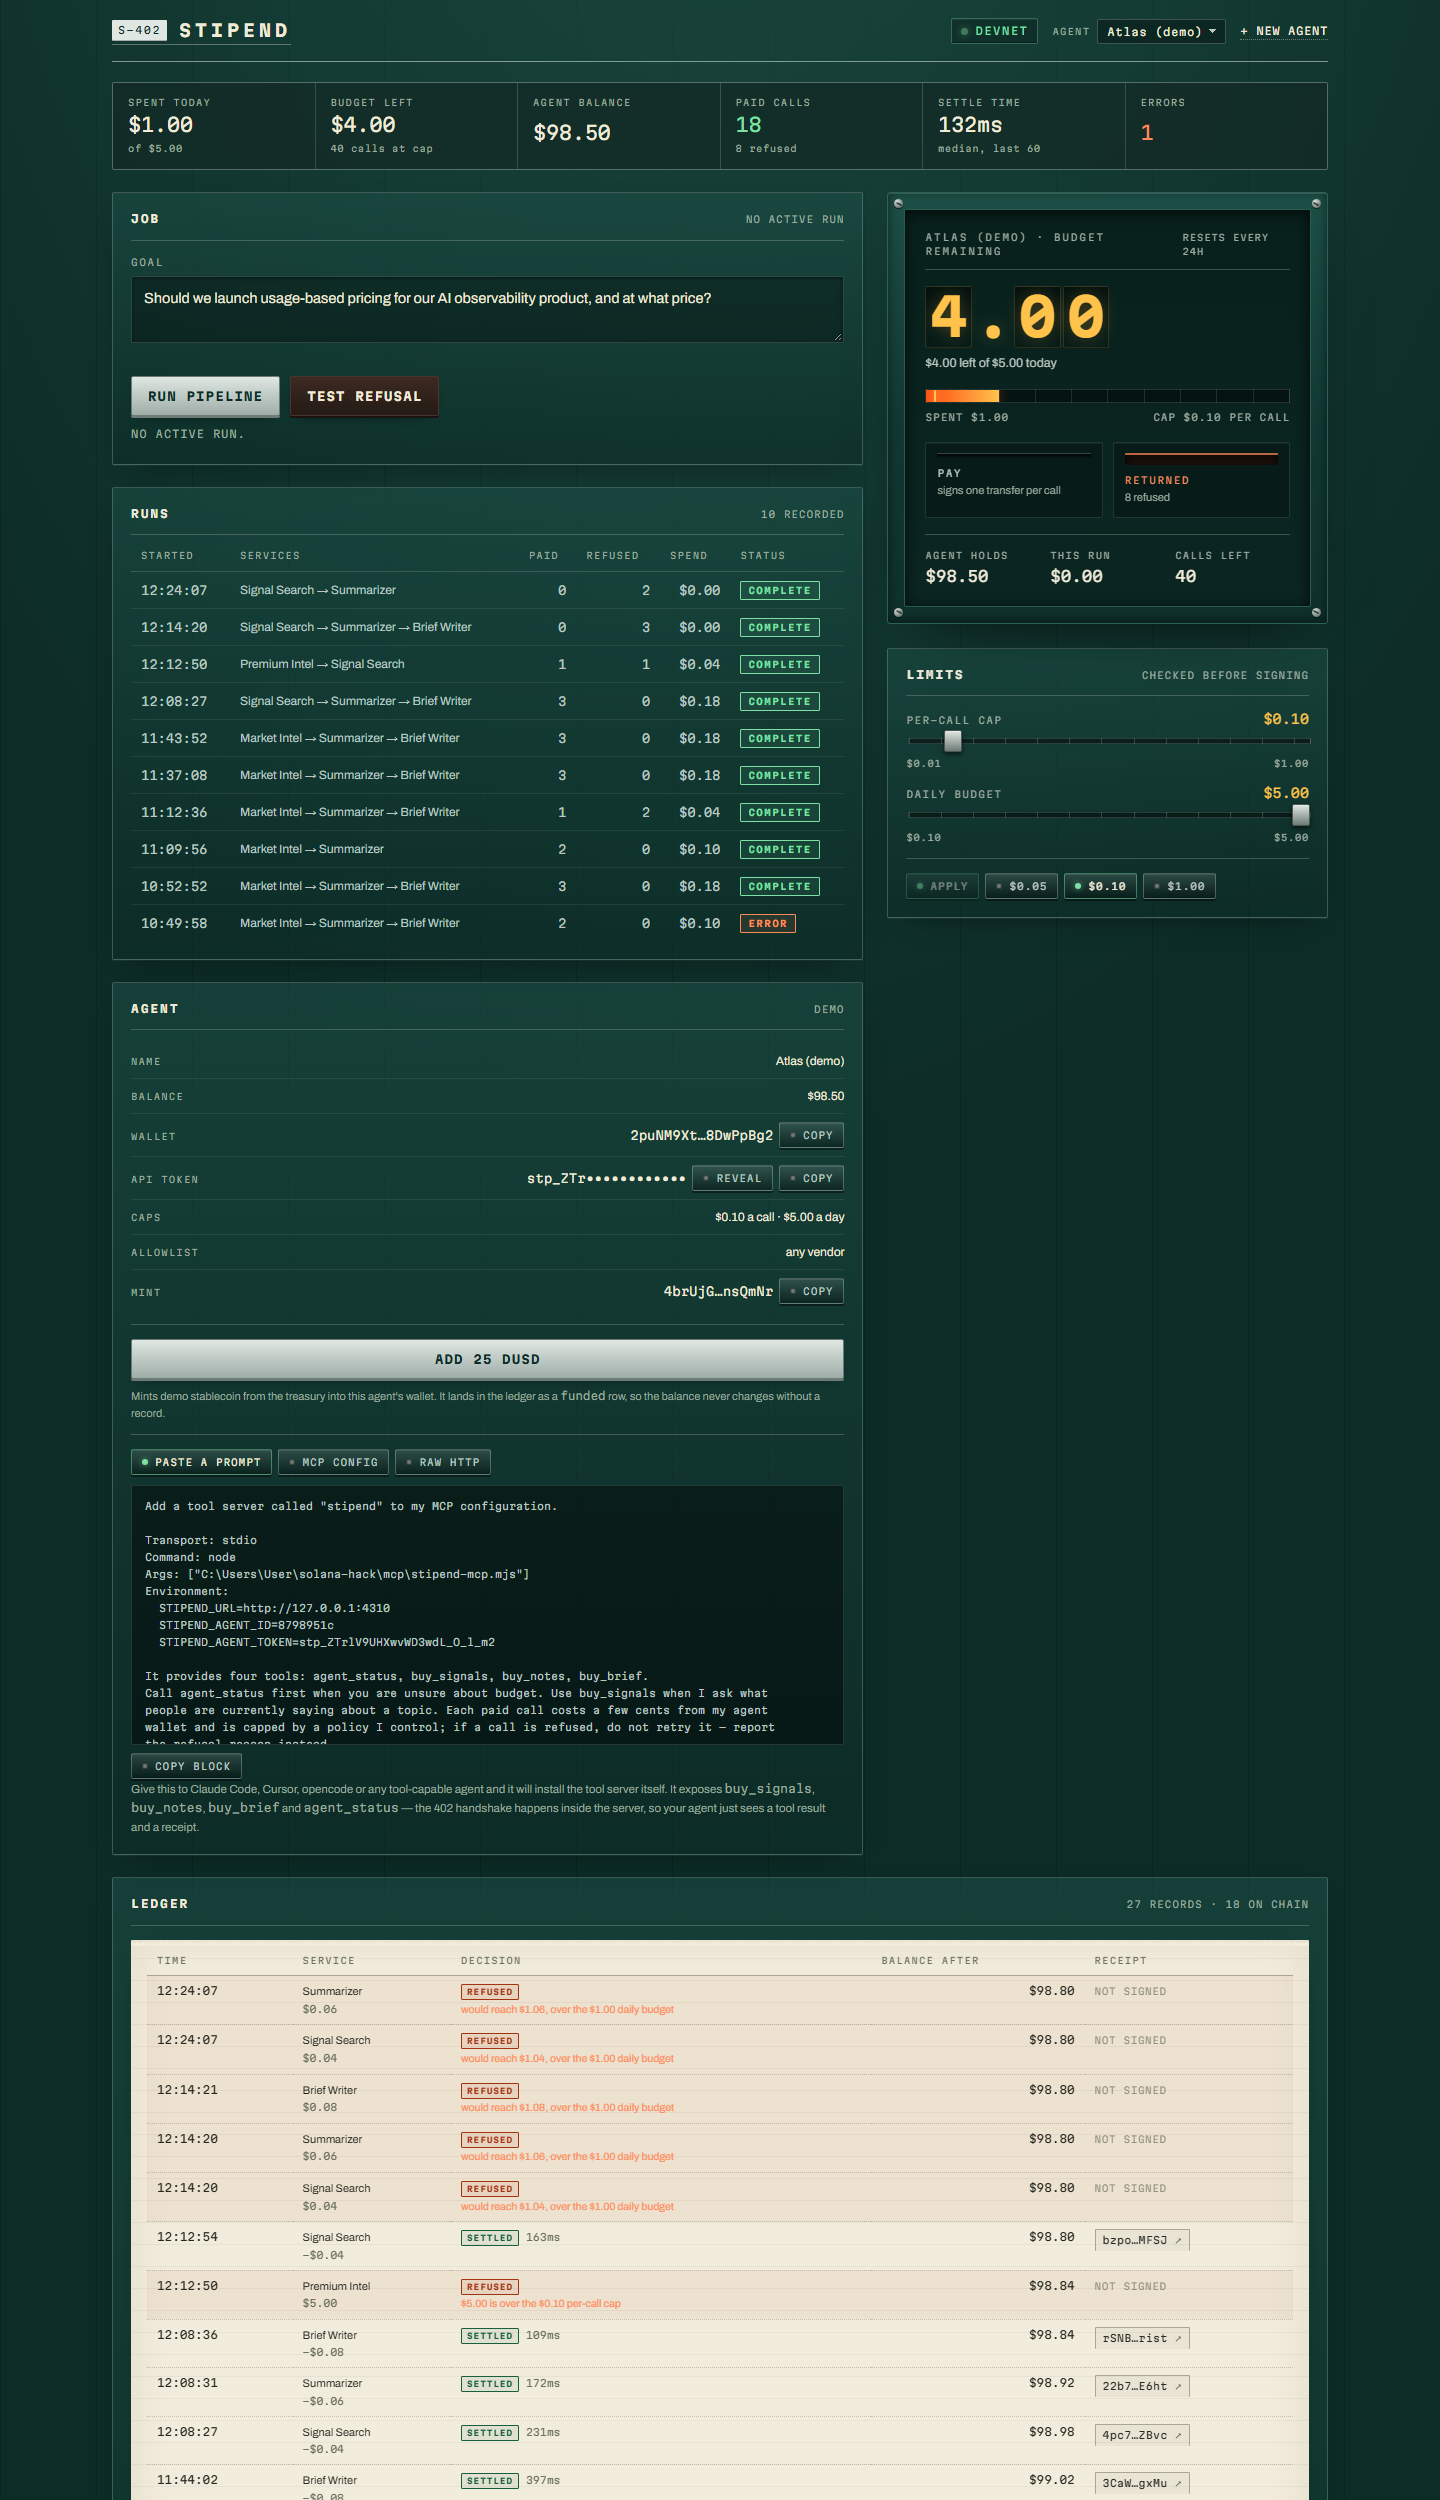
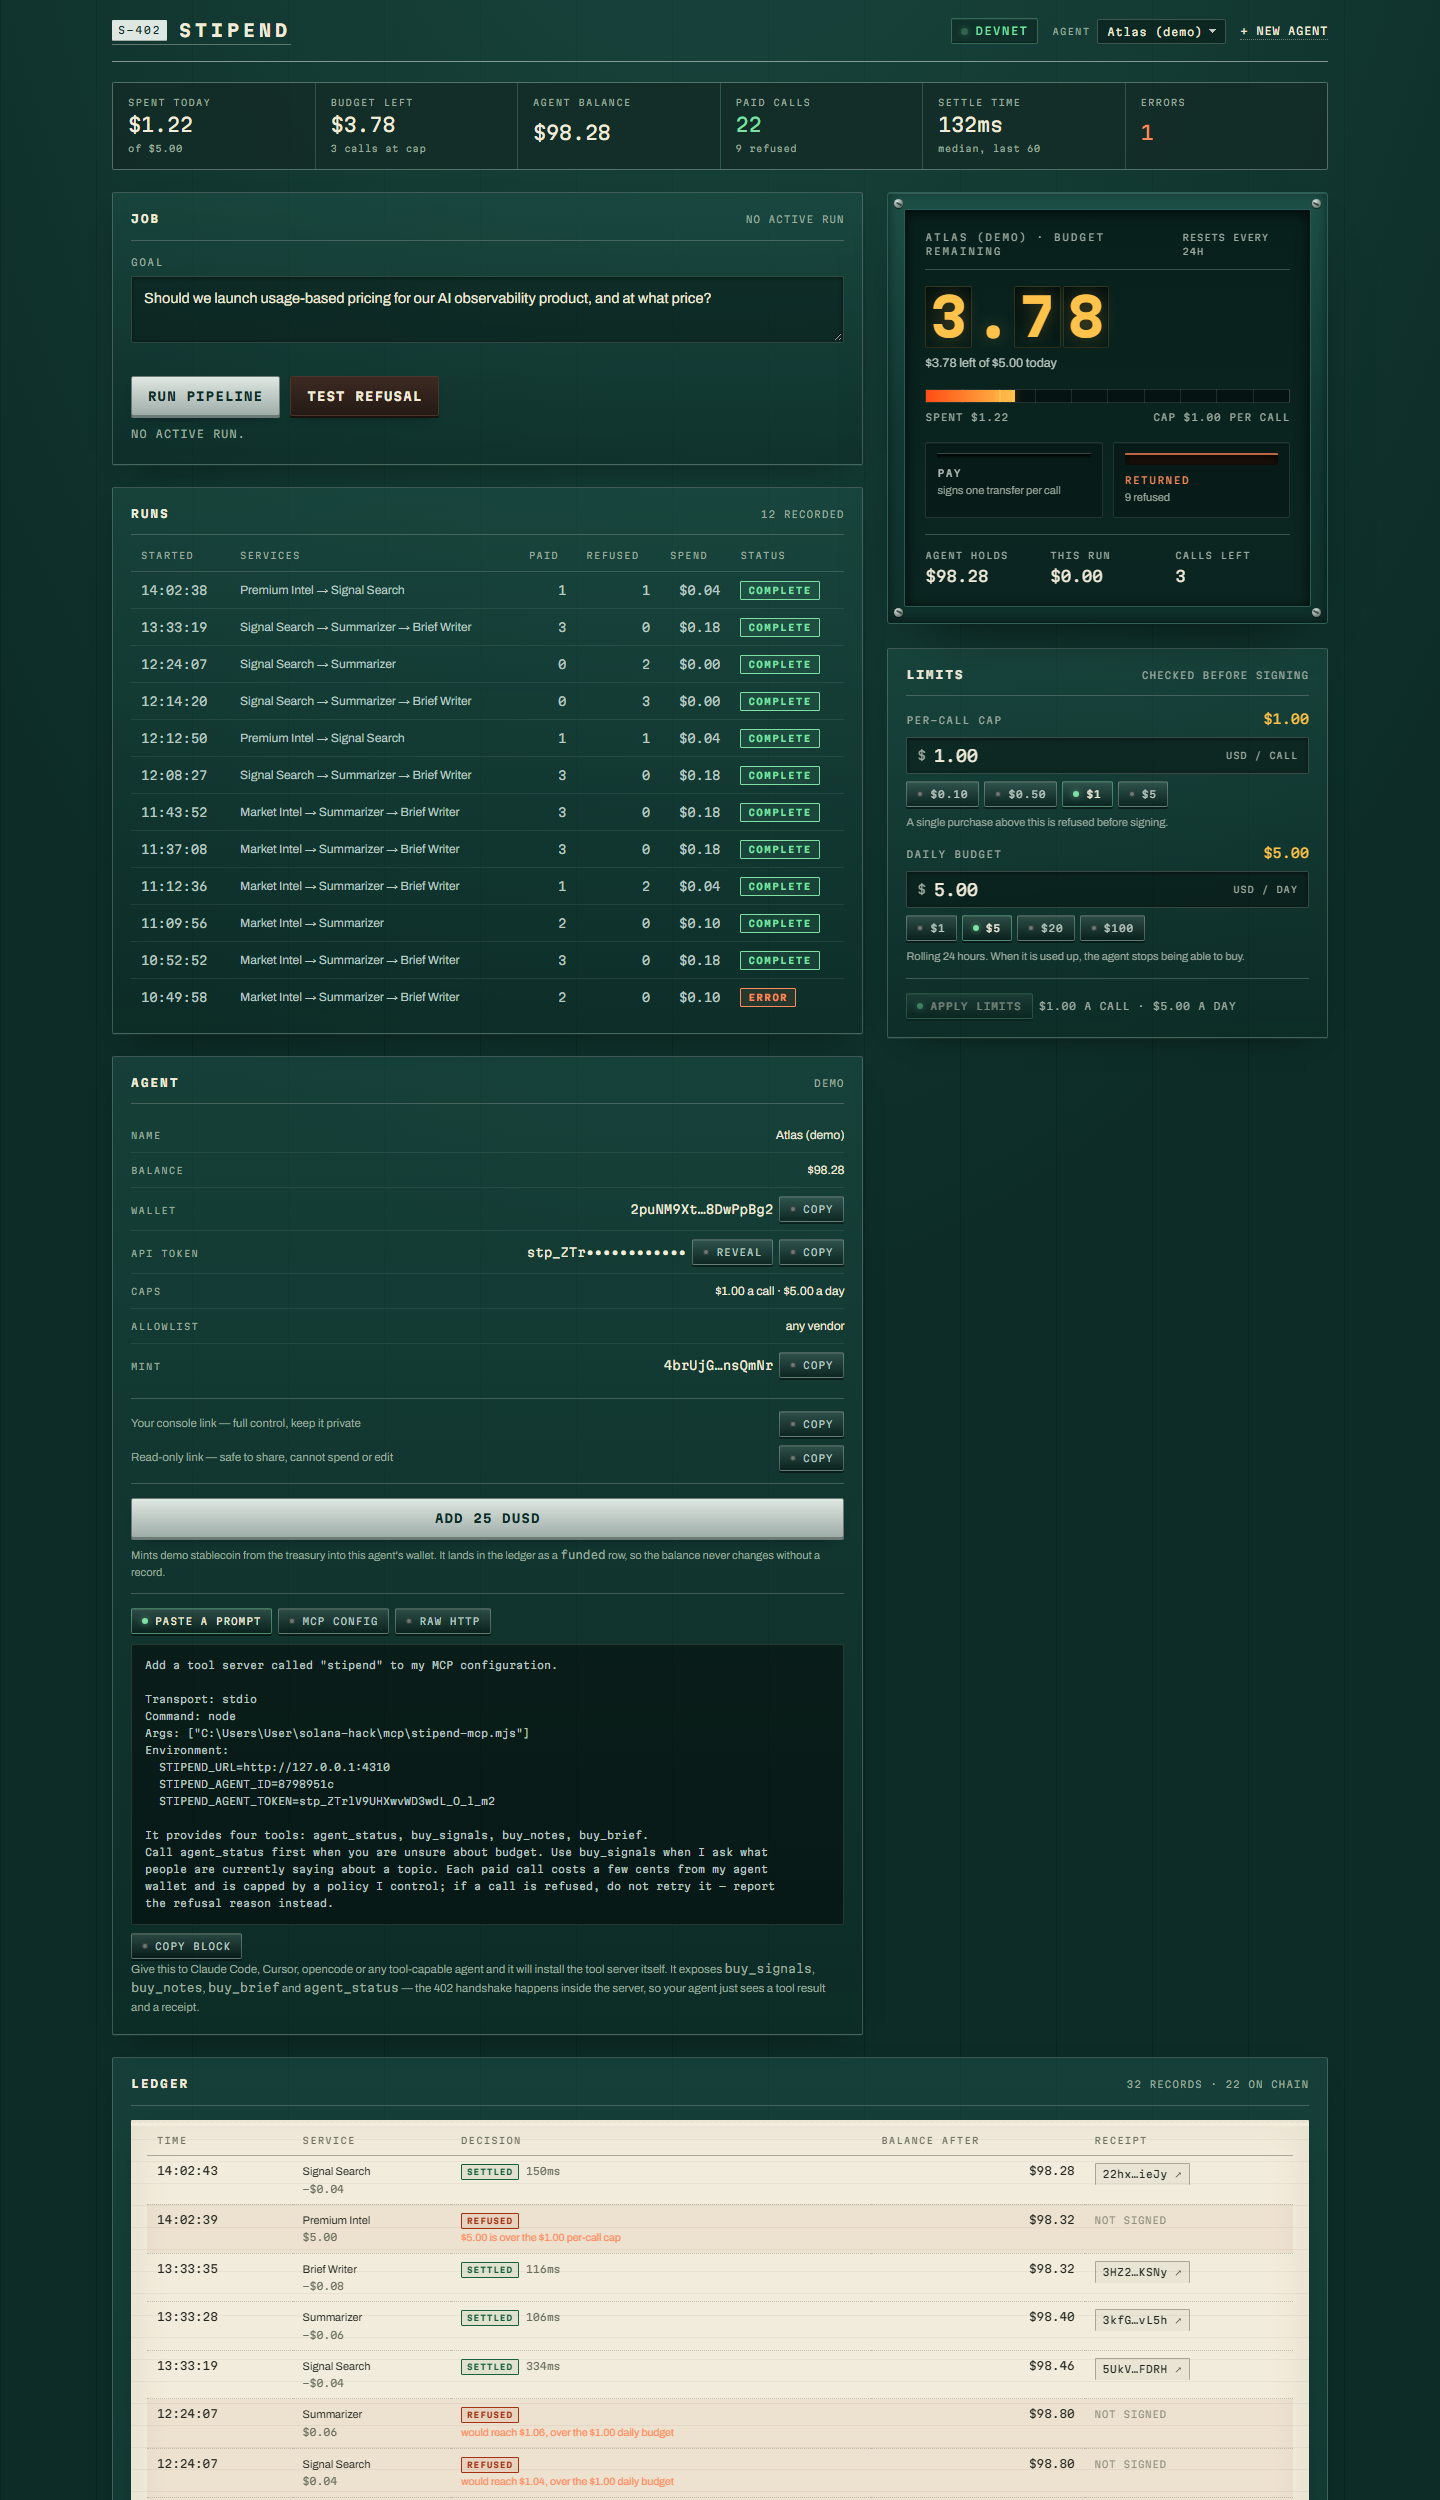
fix(stipend): default caps are one dollar a call and five dollars a day

diff --git a/app/components/Onboard.tsx b/app/components/Onboard.tsx
@@ -19,8 +19,8 @@ export function Onboard() {
   const router = useRouter();
   const [step, setStep] = useState(1);
   const [name, setName] = useState('Atlas');
-  const [perCall, setPerCall] = useState(100_000);
-  const [daily, setDaily] = useState(1_000_000);
+  const [perCall, setPerCall] = useState(1_000_000);
+  const [daily, setDaily] = useState(5_000_000);
   const [allowlist, setAllowlist] = useState<string[]>([]);
   const [agent, setAgent] = useState<PublicAgent | null>(null);
   const [busy, setBusy] = useState(false);

diff --git a/app/components/LimitsEditor.tsx b/app/components/LimitsEditor.tsx
@@ -12,8 +12,8 @@ interface Props {
 }
 
 export function LimitsEditor({ policy, onApply, disabled }: Props) {
-  const [perCall, setPerCall] = useState(policy?.perCallCap ?? 100_000);
-  const [daily, setDaily] = useState(policy?.dailyCap ?? 1_000_000);
+  const [perCall, setPerCall] = useState(policy?.perCallCap ?? 1_000_000);
+  const [daily, setDaily] = useState(policy?.dailyCap ?? 5_000_000);
   const [saving, setSaving] = useState(false);
 
   useEffect(() => {

diff --git a/lib/config.ts b/lib/config.ts
@@ -90,8 +90,8 @@ export interface Policy {
 }
 
 export const DEFAULT_POLICY: Policy = {
-  perCallCap: 100_000, // $0.10
-  dailyCap: 1_000_000, // $1.00
+  perCallCap: 1_000_000, // $1.00 a call
+  dailyCap: 5_000_000, // $5.00 a day
   allowlist: [],
 };
 

diff --git a/app/components/AmountInput.tsx b/app/components/AmountInput.tsx
@@ -26,7 +26,7 @@ export function AmountInput({
   label,
   value,
   onChange,
-  quick = [50_000, 100_000, 500_000, 1_000_000],
+  quick = [100_000, 500_000, 1_000_000, 5_000_000],
   hint,
   disabled,
   max = 1_000_000_000_000,
